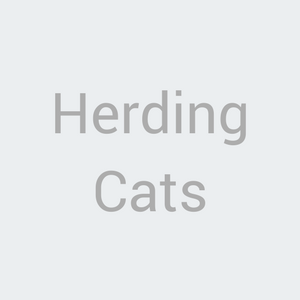
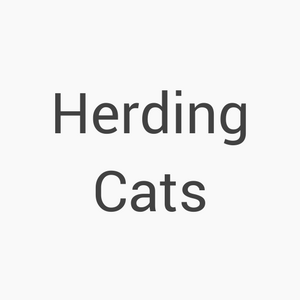
updated background and added a scroll arrow.

Changed region(s): [[0.18, 0.3, 0.84, 0.48], [0.3, 0.57, 0.69, 0.72]]

diff --git a/templates/index.html b/templates/index.html
@@ -7,34 +7,46 @@
     <link href="https://fonts.googleapis.com/css?family=Roboto" rel="stylesheet">
 </head>
 <body>
+    <div class='row filler pro'></div>
     <div class='background heading row'>
         <div class='col-xs-3'></div>
         <div class='col-xs-6'>
-                <p class='text-center title name'>Jessie Engstrom</p>
+                <p class='text-center title name'><b>Jessie Engstrom</b></p>
         </div>
         <div class='col-xs-3'>
+        </div>  
+    </div>
+    <div class='row prog arr'>
+        <div class='col-xs-4'></div>
+        <div class='col-xs-4'>
+            <i class="text-center fa fa-angle-down arrow"><img src='../static/arrow.png' class='size'/></i>
         </div>
+        <div class='col-xs-4'></div>
     </div>
     <div class='row filler'></div>
     <div class='row aboutme'>
+        <div class='row'>
+            <div class='col-xs-12 title'>
+                <p class='text-center'><b>About</b></p>
+            </div>
+        </div>
         <div class='col-xs-1'></div>
         <div class='col-xs-5 desc'>
-            <p><b>microbiologist -> software engineer</b></p>
-            <p><b>catless cat lover</b></p>
-            <p><b>outdoor enthusiast</b></p>
+            <p>microbiologist -> software engineer</p>
+            <p>catless cat lover</p>
+            <p>outdoor enthusiast</p>
         </div>
         <div class='col-xs-2'></div>
         <div class='col-xs-4'>
             <img class='me img-circle' src='../static/jessie.jpg'/>
         </div>
     </div>
+    <div class='row filler pro'></div>
     <div class='background projects'>
         <div class='row'>
-            <div class='col-xs-1'></div>
-            <div class='col-xs-10 title'>
-                <p class='text-center proj'>Projects</p>
+            <div class='col-xs-12 title'>
+                <p class='text-center proj'><b>Projects</b></p>
             </div>
-            <div class='col-xs-1'></div>
         </div>
         <div class='row'>
             <div class='col-xs-4'>
@@ -73,6 +85,11 @@
         </div>
         <div class='col-xs-4'></div>
     </div>
+    <script
+  src="https://code.jquery.com/jquery-3.3.1.min.js"
+  integrity="sha256-FgpCb/KJQlLNfOu91ta32o/NMZxltwRo8QtmkMRdAu8="
+  crossorigin="anonymous"></script>
+    <script src="../static/index.js"></script>
 
 </body>
 </html>

diff --git a/static/index.css b/static/index.css
@@ -1,38 +1,32 @@
 .background {
-    background-image: url('./sf3.jpg');
+    background-color: #e0e2ae;
     background-size: cover;
     background-position: 50%;
     background-attachment: fixed;
     width: 1500px;
-    color: #9e9e9e;
+    color: #424242;
 }
 
 .heading {
-    height: 800px;
+    height: 325px;
 }
 
 .title {
     font-family: 'Roboto', sans-serif;
     font-size: 56px;
+    margin-right: 30px;
 }
 
 .name {
-    padding-top: 233px;
+    padding-top: 93px;
     padding-bottom: 0;
-    margin-left: 20px;
-
 }
 
-.behind {
-    position: absolute;
-    height: 63%;
-    width: 80%;
-    background-color: #fff;
-    opacity: .3;
-    z-index: 0;
-    margin-top: 25%;
-    margin-left: 7%;
+.arr {
+    height: 300px;
+    background-color:  #e0e2ae;
 }
+
 
 .me {
     height: 400px;
@@ -45,7 +39,8 @@
 
 .aboutme {
     font-family: 'Roboto', sans-serif;
-    height: 700px;
+    height: 625px;
+    color: #424242;
 }
 
 .desc {
@@ -58,6 +53,7 @@
     margin-top: 100px;
     margin-bottom: 50px;
     margin-left: 80px;
+    color: #424242;
 }
 
 .herding {
@@ -88,16 +84,47 @@
 }
 
 .projects {
-    height: 800px;
+    height: 625px;
     font-family: 'Roboto', sans-serif;
     font-size: 56px;
 }
 
 .filler {
-    height: 100px;
+    height: 80px;
 }
 
 .connect {
     font-family: 'Roboto', sans-serif;
     font-size: 56px;
+}
+
+.pro {
+    background-color: #e0e2ae;
+}
+
+body, html {
+  position: relative;
+  width: 100%;
+  height: 100%;
+}
+
+.arrow {
+  white-space: nowrap;
+  position: absolute;
+  margin-left: 150px;
+  transform: translateY(0);
+  -webkit-transition: all 500ms ease-in-out;
+  -moz-transition: all 750ms ease-in-out;
+  -ms-transition: all 750ms ease-in-out;
+  -o-transition: all 750ms ease-in-out;
+  transition: all 750ms ease-in-out;
+}
+
+/* this sets the position of the arrow when it's up, so it will move up or down by 14px when you add or remove this class */
+.lift {
+  transform: translateY(14px);
+}
+
+.size {
+    height: 175px;
 }

diff --git a/static/index.js b/static/index.js
@@ -1,0 +1,13 @@
+// we're checking to see if the arrow is up or down, then adding or removing the "lift" class accordingly
+var arrowBounce = function() {
+  var arrow = $(".arrow");
+  
+  if (arrow.hasClass("lift")) {
+    arrow.removeClass("lift");
+  } else {
+    arrow.addClass("lift");
+  }
+};
+
+// run the arrowBounce function every 800ms
+setInterval(arrowBounce, 800);
